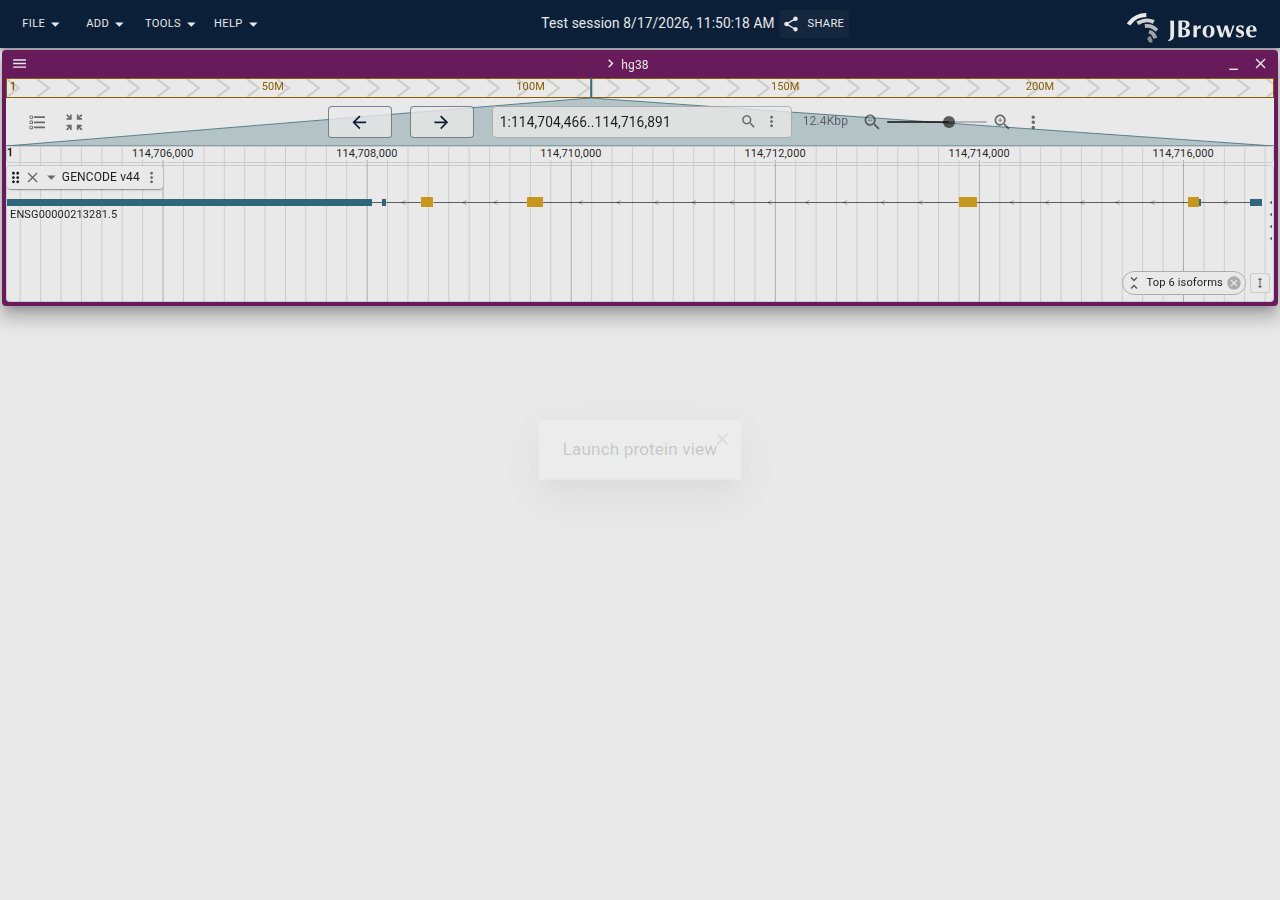
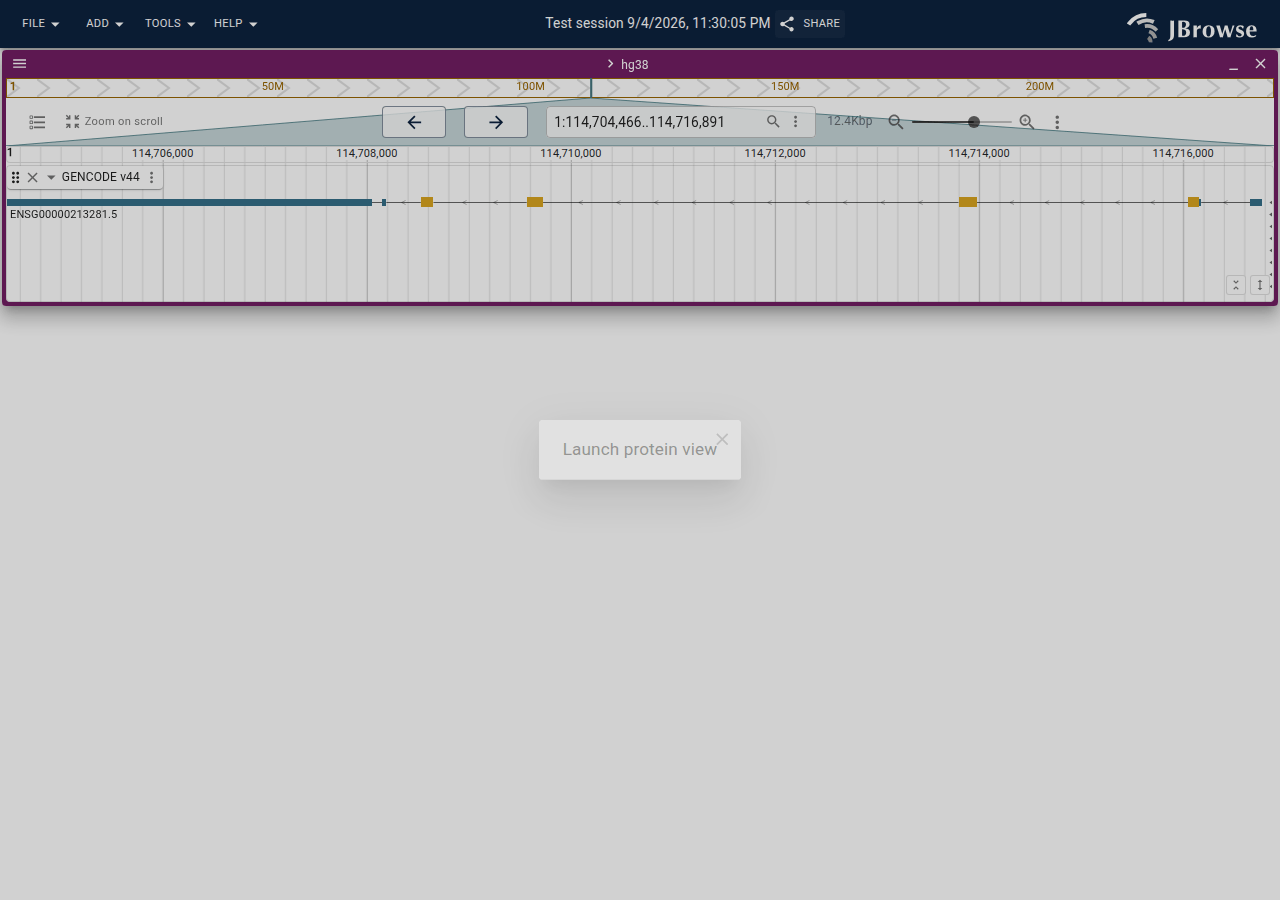
feat(launch): title a spec-launched view by its transcript and structure ids
A view opened from a session spec was called Untitled view; it now reads
like a dialog-launched one, e.g. Protein view - NM_000546.6 - P04637 - 1TUP.
The multi-structure e2e leg waits on the protein view's own ready flag
instead of the fixture view id, which a spec-launched genome view does not
carry, and keeps its reference screenshot.

Claude-Session: https://claude.ai/code/session_01Sm8wesSAkVFsex5xtX1G8D

diff --git a/src/LaunchProteinViewExtensionPoint/index.ts b/src/LaunchProteinViewExtensionPoint/index.ts
@@ -27,6 +27,12 @@ interface LaunchStructure {
   mappedEntityId?: string
 }
 
+// What a structure is called in the view's title: the id it was asked for by,
+// else the file's name.
+function structureLabel(s: LaunchStructure) {
+  return s.uniprotId ?? s.pdbId ?? s.url?.split('/').pop()?.split('?')[0] ?? ''
+}
+
 export default function LaunchProteinViewExtensionPointF(
   pluginManager: PluginManager,
 ) {
@@ -160,6 +166,9 @@ export default function LaunchProteinViewExtensionPointF(
         connectedViewId: resolvedConnectedViewId,
       }))
 
+      const featureName = resolved?.feature.name ?? feature?.name
+      const transcriptName =
+        typeof featureName === 'string' ? featureName : transcriptId
       const proteinView = session.addView(
         'ProteinView',
         proteinViewSnapshot({
@@ -168,7 +177,11 @@ export default function LaunchProteinViewExtensionPointF(
             alignmentAlgorithm === undefined
               ? undefined
               : coerceAlignmentAlgorithm(alignmentAlgorithm),
-          displayName,
+          displayName:
+            displayName ??
+            ['Protein view', transcriptName, ...requested.map(structureLabel)]
+              .filter(s => !!s)
+              .join(' - '),
           height,
           showControls,
           showHighlight,

diff --git a/test/plugin.test.ts b/test/plugin.test.ts
@@ -167,7 +167,12 @@ describe('Protein3d Plugin E2E', () => {
         },
       ],
     })
-    await waitForJBrowseLoad(page)
+    // the spec's own genome view has a generated id, so the fixture's track
+    // container is not what to wait for; the protein view's ready flag flips
+    // once every structure has loaded and aligned
+    await page.waitForSelector('[data-testid="protein-view-ready"]', {
+      timeout: 180_000,
+    })
     await waitForStructureRendered(page)
     await page.waitForFunction(
       () =>
